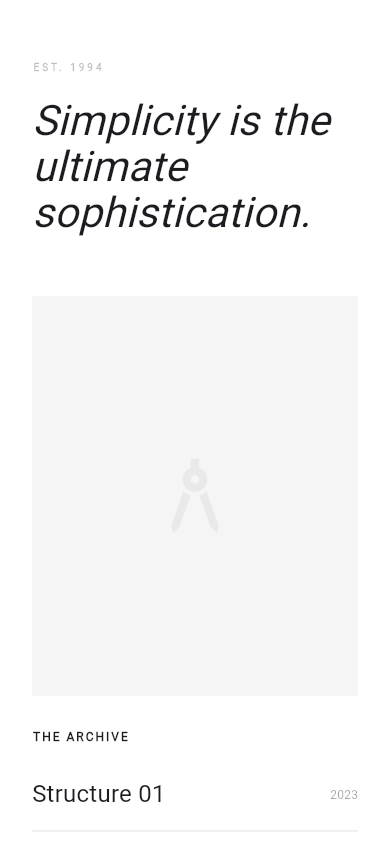
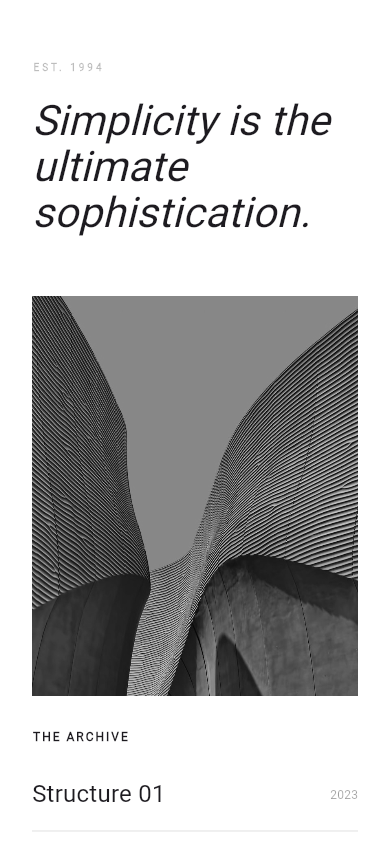
feat: add tasteful Unsplash imagery to Cloud, Galactic, Minimalist showcases
Fill the empty visual zones with curated photography and recapture the
mobile-size example screenshots:
- Cloud: sunrise/meditation hero photo
- Galactic: faint Earth-from-space behind the sector card (text stays legible)
- Mono Minimalist: desaturated architectural facade via ColorFilter

Obsidian intentionally left photo-free (it's a data dashboard). Every
Image.network has an errorBuilder that degrades to the prior gradient/
placeholder, so an offline build never shows a broken image. README notes
Unsplash credit.

analyze clean, anti_slop_check passes.

diff --git a/lib/src/showcase/cloud_portal.dart b/lib/src/showcase/cloud_portal.dart
@@ -8,7 +8,8 @@ class CloudPortalScreen extends StatelessWidget {
 
   @override
   Widget build(BuildContext context) {
-    final theme = TasteTheme.createTheme(const Color(0xFFF1F5F9), brightness: Brightness.light);
+    final theme = TasteTheme.createTheme(const Color(0xFFF1F5F9),
+        brightness: Brightness.light);
     final colorScheme = theme.colorScheme;
 
     return Theme(
@@ -24,10 +25,12 @@ class CloudPortalScreen extends StatelessWidget {
                 // --- Premium Header ---
                 SliverToBoxAdapter(
                   child: Padding(
-                    padding: const EdgeInsets.symmetric(horizontal: 24.0, vertical: 40),
+                    padding: const EdgeInsets.symmetric(
+                        horizontal: 24.0, vertical: 40),
                     child: Column(
                       children: [
-                        Text('SUNDAY, MAY 24', 
+                        Text(
+                          'SUNDAY, MAY 24',
                           style: GoogleFonts.inter(
                             fontSize: 12,
                             fontWeight: FontWeight.bold,
@@ -36,7 +39,8 @@ class CloudPortalScreen extends StatelessWidget {
                           ),
                         ).animateEntrance(index: 0),
                         const SizedBox(height: 12),
-                        Text('Good Morning,\nBreathe.', 
+                        Text(
+                          'Good Morning,\nBreathe.',
                           textAlign: TextAlign.center,
                           style: GoogleFonts.newsreader(
                             fontSize: 48,
@@ -59,18 +63,35 @@ class CloudPortalScreen extends StatelessWidget {
                       child: Column(
                         crossAxisAlignment: CrossAxisAlignment.start,
                         children: [
-                          Container(
+                          SizedBox(
                             height: 240,
                             width: double.infinity,
-                            decoration: BoxDecoration(
-                              gradient: LinearGradient(
-                                colors: [colorScheme.primaryContainer, colorScheme.secondaryContainer],
-                                begin: Alignment.topLeft,
-                                end: Alignment.bottomRight,
+                            child: Image.network(
+                              // Calm ocean mist (Unsplash). Sets a serene tone
+                              // for the wellness hero.
+                              'https://images.unsplash.com/photo-1499209974431-9dddcece7f88?w=800&q=80',
+                              fit: BoxFit.cover,
+                              // Degrade gracefully to the original gradient if
+                              // the network image cannot load (offline build).
+                              errorBuilder: (context, error, stack) =>
+                                  Container(
+                                decoration: BoxDecoration(
+                                  gradient: LinearGradient(
+                                    colors: [
+                                      colorScheme.primaryContainer,
+                                      colorScheme.secondaryContainer,
+                                    ],
+                                    begin: Alignment.topLeft,
+                                    end: Alignment.bottomRight,
+                                  ),
+                                ),
+                                child: Center(
+                                  child: Icon(Icons.wb_sunny_outlined,
+                                      size: 80,
+                                      color: colorScheme.primary
+                                          .withValues(alpha: 0.2)),
+                                ),
                               ),
-                            ),
-                            child: Center(
-                              child: Icon(Icons.wb_sunny_outlined, size: 80, color: colorScheme.primary.withValues(alpha: 0.2)),
                             ),
                           ),
                           Padding(
@@ -78,13 +99,21 @@ class CloudPortalScreen extends StatelessWidget {
                             child: Column(
                               crossAxisAlignment: CrossAxisAlignment.start,
                               children: [
-                                Text('RECOMMENDED FOR YOU', 
-                                  style: GoogleFonts.inter(fontSize: 10, fontWeight: FontWeight.bold, letterSpacing: 1, color: colorScheme.primary),
+                                Text(
+                                  'RECOMMENDED FOR YOU',
+                                  style: GoogleFonts.inter(
+                                      fontSize: 10,
+                                      fontWeight: FontWeight.bold,
+                                      letterSpacing: 1,
+                                      color: colorScheme.primary),
                                 ),
                                 const SizedBox(height: 8),
-                                Text('Deep Focus Meditation', style: theme.textTheme.titleLarge),
+                                Text('Deep Focus Meditation',
+                                    style: theme.textTheme.titleLarge),
                                 const SizedBox(height: 4),
-                                Text('15 Minutes • Mindful Flow', style: theme.textTheme.bodyMedium?.copyWith(color: colorScheme.outline)),
+                                Text('15 Minutes • Mindful Flow',
+                                    style: theme.textTheme.bodyMedium
+                                        ?.copyWith(color: colorScheme.outline)),
                               ],
                             ),
                           ),
@@ -104,11 +133,20 @@ class CloudPortalScreen extends StatelessWidget {
                         scrollDirection: Axis.horizontal,
                         padding: const EdgeInsets.symmetric(horizontal: 24),
                         children: [
-                          _SmallCloudCard(title: 'Morning Yoga', icon: Icons.self_improvement, color: Colors.blue.shade50),
+                          _SmallCloudCard(
+                              title: 'Morning Yoga',
+                              icon: Icons.self_improvement,
+                              color: Colors.blue.shade50),
                           const SizedBox(width: 16),
-                          _SmallCloudCard(title: 'Sleep Soundly', icon: Icons.nightlight_round, color: Colors.indigo.shade50),
+                          _SmallCloudCard(
+                              title: 'Sleep Soundly',
+                              icon: Icons.nightlight_round,
+                              color: Colors.indigo.shade50),
                           const SizedBox(width: 16),
-                          _SmallCloudCard(title: 'Breath Work', icon: Icons.air, color: Colors.teal.shade50),
+                          _SmallCloudCard(
+                              title: 'Breath Work',
+                              icon: Icons.air,
+                              color: Colors.teal.shade50),
                         ],
                       ).animateEntrance(index: 3),
                     ),
@@ -124,7 +162,8 @@ class CloudPortalScreen extends StatelessWidget {
 }
 
 class _SmallCloudCard extends StatelessWidget {
-  const _SmallCloudCard({required this.title, required this.icon, required this.color});
+  const _SmallCloudCard(
+      {required this.title, required this.icon, required this.color});
   final String title;
   final IconData icon;
   final Color color;
@@ -143,7 +182,9 @@ class _SmallCloudCard extends StatelessWidget {
         children: [
           Icon(icon, color: Colors.black54),
           const Spacer(),
-          Text(title, style: GoogleFonts.inter(fontWeight: FontWeight.bold, fontSize: 14, height: 1.2)),
+          Text(title,
+              style: GoogleFonts.inter(
+                  fontWeight: FontWeight.bold, fontSize: 14, height: 1.2)),
         ],
       ),
     );

diff --git a/lib/src/showcase/mono_minimalist.dart b/lib/src/showcase/mono_minimalist.dart
@@ -52,15 +52,46 @@ class MonoMinimalistScreen extends StatelessWidget {
             SliverPadding(
               padding: const EdgeInsets.symmetric(horizontal: 32),
               sliver: SliverToBoxAdapter(
-                child: Container(
-                  height: 400,
-                  width: double.infinity,
-                  decoration: const BoxDecoration(
-                    color: Color(0xFFF5F5F5),
-                  ),
-                  child: Center(
-                    child: Icon(Icons.architecture,
-                        size: 100, color: Colors.black.withValues(alpha: 0.05)),
+                child: ColorFiltered(
+                  // Desaturate to keep the strict mono / editorial aesthetic.
+                  colorFilter: const ColorFilter.matrix(<double>[
+                    0.2126,
+                    0.7152,
+                    0.0722,
+                    0,
+                    0,
+                    0.2126,
+                    0.7152,
+                    0.0722,
+                    0,
+                    0,
+                    0.2126,
+                    0.7152,
+                    0.0722,
+                    0,
+                    0,
+                    0,
+                    0,
+                    0,
+                    1,
+                    0,
+                  ]),
+                  child: SizedBox(
+                    height: 400,
+                    width: double.infinity,
+                    child: Image.network(
+                      // Architectural facade (Unsplash).
+                      'https://images.unsplash.com/photo-1486718448742-163732cd1544?w=800&q=80',
+                      fit: BoxFit.cover,
+                      errorBuilder: (context, error, stack) => Container(
+                        color: const Color(0xFFF5F5F5),
+                        child: Center(
+                          child: Icon(Icons.architecture,
+                              size: 100,
+                              color: Colors.black.withValues(alpha: 0.05)),
+                        ),
+                      ),
+                    ),
                   ),
                 ).animateEntrance(index: 2),
               ),

diff --git a/lib/src/showcase/galactic_explorer.dart b/lib/src/showcase/galactic_explorer.dart
@@ -79,6 +79,21 @@ class GalacticExplorerScreen extends StatelessWidget {
                                 glowColor: Colors.blueAccent,
                                 child: Stack(
                                   children: [
+                                    // Faint Earth-from-space photo behind the
+                                    // sector readout. Low opacity keeps the
+                                    // white text legible; vanishes if offline.
+                                    Positioned.fill(
+                                      child: Opacity(
+                                        opacity: 0.35,
+                                        child: Image.network(
+                                          'https://images.unsplash.com/photo-1451187580459-43490279c0fa?w=800&q=80',
+                                          fit: BoxFit.cover,
+                                          errorBuilder:
+                                              (context, error, stack) =>
+                                                  const SizedBox.shrink(),
+                                        ),
+                                      ),
+                                    ),
                                     Positioned(
                                       right: -30,
                                       bottom: -30,

diff --git a/README.md b/README.md
@@ -47,7 +47,9 @@ This implementation follows the **Taste-Skill v2** architecture:
 ## 📸 Examples
 
 The showcase app (`lib/main.dart`) ships four fully realized screens, one per
-aesthetic direction. Screenshots below are captured from the live web build.
+aesthetic direction. Screenshots below are captured from the live web build at
+a phone viewport. Photography via [Unsplash](https://unsplash.com); each image
+degrades gracefully to a gradient placeholder when offline.
 
 | Showcase selector |
 | :---: |